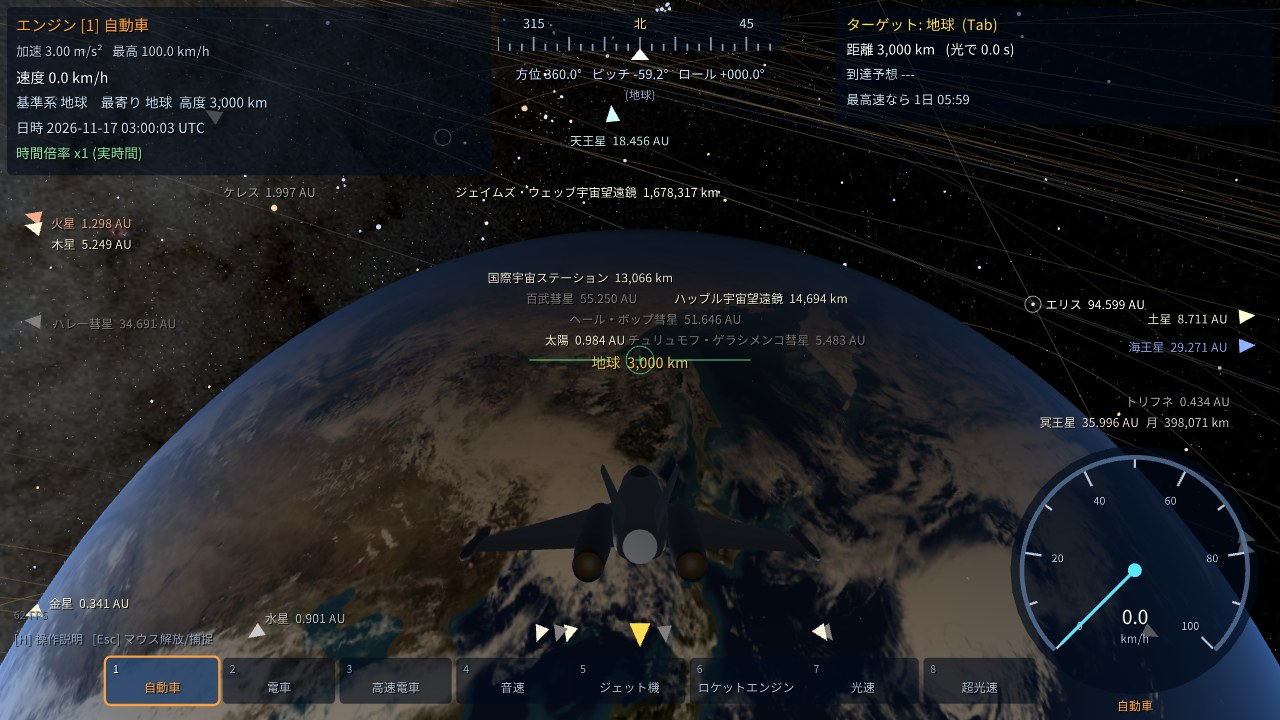
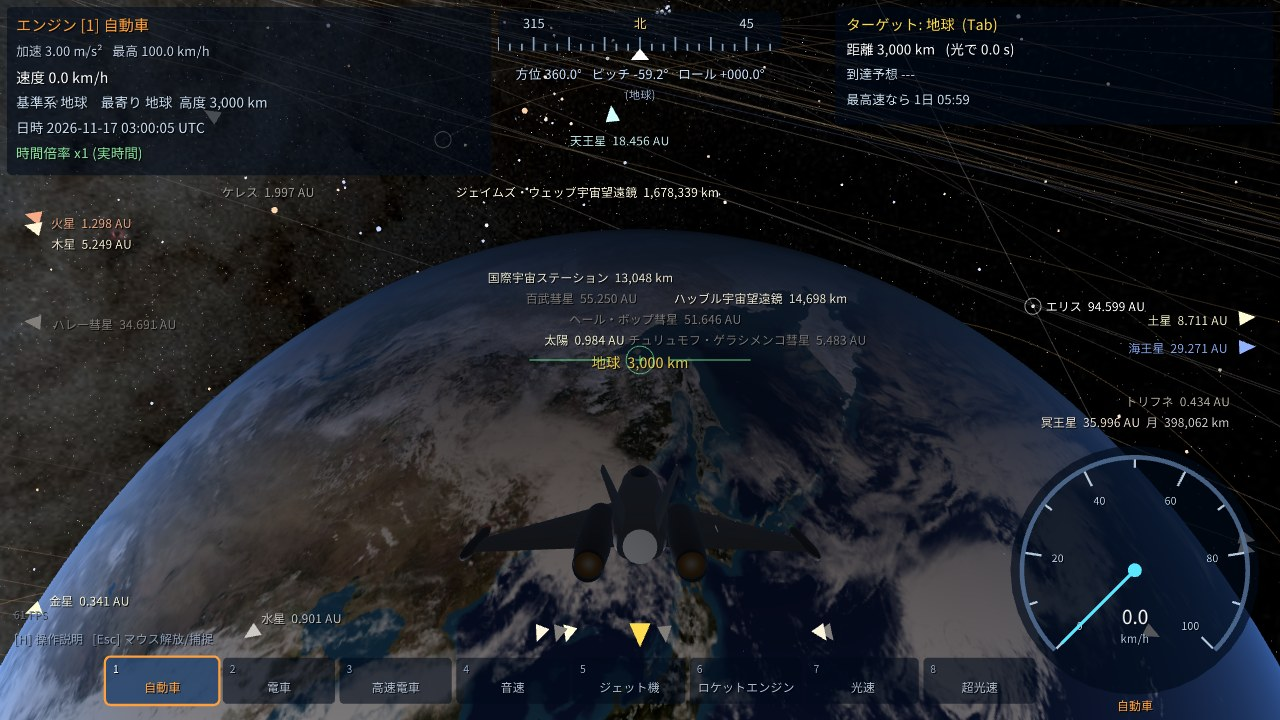
Draw Earth's coastlines from the 60 arc-second elevations and raise Earth's surface images to 8192x4096, opening the Seto Inland Sea

diff --git a/tools/make_earth_assets.py b/tools/make_earth_assets.py
@@ -5,35 +5,38 @@
 
 データ（いずれも商用を含め自由に再配布できるもの）:
   - NASA Blue Marble Next Generation (2004年4月, 地形陰影なし)  … 地表の色
-  - NOAA NCEI ETOPO 2022 (60 秒角, 氷床表面) を 5 分角に間引いたもの … 標高・水深・海陸
+  - NOAA NCEI ETOPO 2022 (60 秒角, 氷床表面) を 2 分角に間引いたもの … 標高・水深
+    同じデータの 60 秒角そのもの（make_earth_detail.py と同じファイル） … 海陸
   - NASA Black Marble 2016                                    … 夜の街明かり
 
 出力:
   earth_color.jpg  地表の色（海は周囲の陸の色で埋めてある）
-  earth_data.png   R: 高さコード, G: 夜景, B: 海陸マスク（少しぼかし）, A: 海氷
+  earth_data.png   R: 高さコード, G: 夜景, B: 海陸マスク（テクセルの中の陸の割合）, A: 海氷
+  どちらも 8192x4096（配布する版も。--hq を付けても同じ）
 
-使い方: python3 tools/make_earth_assets.py <作業ディレクトリ> [出力先=assets] [--hq]
-  --hq: 高画質版（8192x4096。地表の色は 21600x10800、標高は 2 個おきに取得）
-必要なもの: Pillow（ダウンロード 約 50 MB、--hq では 約 300 MB）
+使い方: python3 tools/make_earth_assets.py <作業ディレクトリ> [出力先=assets]
+必要なもの: Pillow と NumPy（ダウンロード 約 300 MB。ほかに make_earth_detail.py と同じ 約 930 MB）
 """
 import os
 import sys
 import struct
 import urllib.request
+import numpy as np
 from PIL import Image, ImageChops, ImageFilter, ImageMath
 
-HQ = "--hq" in sys.argv
+import make_earth_detail
+
 BASE = "https://assets.science.nasa.gov/content/dam/science/esd/eo/images"
 SOURCES = {
-    "color": BASE + "/bmng/bmng-base/april/world.200404.3x%s.jpg" % ("21600x10800" if HQ else "5400x2700"),
+    "color": BASE + "/bmng/bmng-base/april/world.200404.3x21600x10800.jpg",
     "lights": BASE + "/imagerecords/144000/144898/BlackMarble_2016_3km.jpg",
 }
-# ETOPO 2022 60 秒角 (21600x10800) を 5 個おきに取得 → 4320x2160（--hq では 2 個おきで 10800x5400。float32, OPeNDAP バイナリ)
-ETOPO_STRIDE = 2 if HQ else 5
+# ETOPO 2022 60 秒角 (21600x10800) を 2 個おきに取得 → 10800x5400（float32, OPeNDAP バイナリ)
+ETOPO_STRIDE = 2
 ETOPO_URL = ("https://oceanwatch.pifsc.noaa.gov/erddap/griddap/ETOPO_2022_v1_60s.dods"
              "?z%%5B0:%d:10799%%5D%%5B0:%d:21599%%5D" % (ETOPO_STRIDE, ETOPO_STRIDE))
 ETOPO_FILE = "etopo2022_60s_stride%d.dods" % ETOPO_STRIDE
-W, H = (8192, 4096) if HQ else (4096, 2048)
+W, H = 8192, 4096
 LAND_MAX, SEA_MAX = 8900.0, 11000.0  # 高さコードの範囲 (m)。シェーダの earthHeightM と合わせる
 
 
@@ -70,6 +73,28 @@ def ev(expr, **kw):
     return getattr(ImageMath, "unsafe_eval")(expr, **kw) if hasattr(ImageMath, "unsafe_eval") else ImageMath.eval(expr, **kw)
 
 
+def land_fraction(work, color):
+    """60 秒角（1 画素 約 1.85 km）で海陸を決め、W x H の 1 テクセルの中の陸の割合 (0..255) にする。
+    5 分角に間引いた標高で決めると、瀬戸内海のような幅 10〜50 km の海が陸になる（四国・九州が本州と陸続きに見えた）。
+    海陸: 標高 0 m 以上を陸とする。ただし地表画像で水の色の所（カスピ海などの湖）は水、
+    海面下でも暗くなく水の色でない浅い所（オランダの干拓地・カスピ海の北の低地など）は陸。
+    地表画像の浅い内海はほとんど黒い（瀬戸内海・東京湾）ので、暗い所はこの例外から除く"""
+    big = make_earth_detail.W, make_earth_detail.H
+    tile = make_earth_detail.TILE
+    land = np.zeros((big[1], big[0]), np.uint8)
+    for r in range(big[1] // tile):
+        e = make_earth_detail.load_band(work, r)
+        e = np.concatenate([e[:, big[0] // 2:], e[:, :big[0] // 2]], axis=1)   # 経度 -180° を左端に
+        ch = color.size[1] * tile // big[1]
+        c = np.asarray(color.crop((0, r * ch, color.size[0], (r + 1) * ch)).resize((big[0], tile), Image.BILINEAR),
+                       np.float32)
+        R, G, B = c[..., 0], c[..., 1], c[..., 2]
+        water = (B > np.maximum(R, G) + 8) | ((R + G + B < 100) & (B >= R))
+        landish = (e >= 0) | ((e > -50) & (R >= B) & (R + G + B >= 60))
+        land[r * tile:(r + 1) * tile] = (landish & ~water) * 255
+    return Image.fromarray(land).resize((W, H), Image.BOX)
+
+
 def fill_ocean(color, land):
     """海のピクセルを周囲の陸の色で埋める（プッシュプル法）。
     シェーダは海岸線をテクセルより細かく引くので、陸の色に海の青が混ざらないようにする。"""
@@ -103,14 +128,10 @@ def main():
     src = {k: fetch(work, u) for k, u in SOURCES.items()}
 
     elev = load_etopo(fetch(work, ETOPO_URL, ETOPO_FILE)).resize((W, H), Image.BILINEAR)
-    color = Image.open(src["color"]).convert("RGB").resize((W, H), Image.LANCZOS)
-    # 海陸: 標高 0 m 以上を陸とする。ただし地表画像で水の色の所（カスピ海などの湖）は水、
-    # 海面下でも水の色でない浅い所（オランダの干拓地・死海周辺など）は陸
-    r, g, b = [c.convert("F") for c in color.split()]
-    water = ev("convert(max(b > max(r, g) + 8, (r + g + b < 100) * (b >= r)) * 255, 'L')", r=r, g=g, b=b)
-    landish = ev("convert(max(e >= 0, (e > -50) * (r >= b)) * 255, 'L')", e=elev, r=r, b=b)
-    land = ImageChops.multiply(landish, ImageChops.invert(water))
-    land = land.filter(ImageFilter.MedianFilter(3))
+    color_src = Image.open(src["color"]).convert("RGB")
+    color = color_src.resize((W, H), Image.LANCZOS)
+    frac = land_fraction(work, color_src)
+    land = frac.point(lambda v: 255 if v >= 128 else 0)
     # 海氷: 海の上の白い所（元画像の明るさから）
     gray = color.convert("L")
     seaice = ImageChops.multiply(gray.point(lambda v: max(0, min(255, (v - 100) * 4))), ImageChops.invert(land))
@@ -124,8 +145,8 @@ def main():
     # G: 夜景。月明かりに照らされた地表（〜55）を除く
     lights = Image.open(src["lights"]).convert("L").resize((W, H), Image.LANCZOS)
     lights = lights.point(lambda v: int(round((max(0, v - 55) / 200) ** 1.3 * 255)))
-    # B: 少しぼかした海陸マスク（シェーダで 0.5 を境に海岸線を引き、ノイズで細かく揺らす）
-    mask = land.filter(ImageFilter.GaussianBlur(1.2))
+    # B: 陸の割合（シェーダで 0.5 を境に海岸線を引き、ノイズで細かく揺らす）。テクセルの半分より狭い海峡は閉じる
+    mask = frac
     # A: 海氷
     Image.merge("RGBA", (height, lights, mask, seaice)).save(os.path.join(out, "earth_data.png"), optimize=True)
     print("done:", out)

diff --git a/README.en.md b/README.en.md
@@ -230,7 +230,7 @@ On the first launch a short guide (4 pages) introduces the controls and highligh
 
 Try it in your browser without installing anything: **https://hubstacksea.github.io/Solar-System-Simulator/**
 
-- Runs in browsers with WebGL2 (recent Chrome / Edge / Firefox / Safari). Only the 10 MB needed to start is loaded first; the planet and moon maps, asteroid shapes, Moon maps, Earth's clouds and seasons, the fine elevations of Earth, the Moon and Mars, and the asteroid belt (about 126 MB) are loaded in the background while you play. Until they arrive, surfaces are drawn procedurally and "Loading maps (N left)" is shown at the bottom left
+- Runs in browsers with WebGL2 (recent Chrome / Edge / Firefox / Safari). Only the 21 MB needed to start is loaded first; the planet and moon maps, asteroid shapes, Moon maps, Earth's clouds and seasons, the fine elevations of Earth, the Moon and Mars, and the asteroid belt (about 126 MB) are loaded in the background while you play. Until they arrive, surfaces are drawn procedurally and "Loading maps (N left)" is shown at the bottom left
 - Music is not included (sound effects are). Japanese text uses the bundled Noto Sans JP font
 - Click the view to steer with the mouse (Esc to release). Settings and bookmarks are kept in the browser
 - On phones and tablets, on-screen buttons appear: drag to steer, Thrust / Brake / Stop on the right, Target / Warp / Autopilot on the left, Tour / Events / Map / Settings / Help / Share at the top, and tap the engine bar to switch engines. Quality starts at Low, and small screens are rendered at 720 pixels high and scaled down
@@ -498,7 +498,7 @@ On the "Apollo program" page of the event list (K), pick a flight and press Ente
 The images in `assets/` are made from NASA / NOAA data by `tools/make_earth_assets.py` and `tools/make_moon_assets.py` and embedded into the executable at build time (no files needed at run time).
 
 - Surface color: NASA Earth Observatory, Blue Marble: Next Generation (April 2004)
-- Elevation and ocean depth: NOAA NCEI, ETOPO 2022 Global Relief Model (60 arc-second, ice surface; subsampled to 5 arc-minutes for the whole globe, and used at the full 60 arc-seconds around the camera near the land surface; converted by `tools/make_earth_detail.py`, downloads about 930 MB)
+- Elevation and ocean depth: NOAA NCEI, ETOPO 2022 Global Relief Model (60 arc-second, ice surface; the global elevations are subsampled to 5 arc-minutes and the coastlines come from the 60 arc-seconds, which are also used as they are around the camera near the land surface; converted by `tools/make_earth_detail.py`, downloads about 930 MB)
 - City lights: NASA Earth Observatory, Black Marble 2016
 - Moon color and elevation: NASA's Scientific Visualization Studio, CGI Moon Kit (LROC WAC / LOLA)
 - Finer elevations for a few regions such as famous mountains (`assets/earth_patches.bin`, `moon_patches.bin`, `mars_patches.bin`): for Earth, ESA's Copernicus DEM GLO-90 (3 arc-seconds, about 90 m; produced using Copernicus WorldDEM™-90 © DLR e.V. 2010-2014 and © Airbus Defence and Space GmbH 2014-2018 provided under COPERNICUS by the European Union and ESA; all rights reserved); for the Moon, SLDEM2015 (LRO LOLA and the Kaguya Terrain Camera, Barker et al. 2016; 512 pixels per degree, about 60 m); for Mars, the USGS MOLA/HRSC blended elevations (200 m, averaged down to 288 pixels per degree, about 206 m). Made by `tools/make_detail_patches.py`
@@ -525,7 +525,7 @@ The images in `assets/` are made from NASA / NOAA data by `tools/make_earth_asse
 - Music (Moon): Debussy, "Clair de lune", Laurens Goedhart, piano (2011). CC BY 3.0
 - All recordings were taken from Wikimedia Commons. To regenerate: `python3 tools/make_music_assets.py <work dir>` (requires ffmpeg; downloads about 350 MB)
 
-All of them may be used and redistributed freely, including commercially (see [THIRD_PARTY_NOTICES.md](THIRD_PARTY_NOTICES.md)). To regenerate them: `python3 tools/make_earth_assets.py <work dir>` (downloads about 50 MB), `python3 tools/make_earth_detail.py <work dir>` (Earth's fine land elevations; also requires NumPy; about 930 MB), `python3 tools/make_body_detail.py <work dir>` (the fine elevations of the Moon and Mars; also requires NumPy; about 11.5 GB, 11.4 GB of it the Mars source), `python3 tools/make_detail_patches.py <work dir>` (the finer elevations for a few regions such as famous mountains; requires NumPy; about 80 MB for Earth and 0.6 GB for the Moon, plus the Mars source), `python3 tools/make_surface_props.py <work dir>` (the Moon's rock abundance and the thermal inertia and dune fields of Mars; also requires NumPy; about 140 MB) and `python3 tools/make_moon_assets.py <work dir>` (about 45 MB). All of them require Pillow. The place names come from `python3 tools/make_place_names.py <work dir>` (Python only; about 50 MB). The tools for the Earth, Earth's seasons and clouds, the Moon, the Milky Way and the planet and moon maps make a high-resolution set when `--hq` is added at the end (8192×4096 for the Earth and Moon colors and the Mercury and Mars maps, and so on). Write it to another folder and build with `cmake -B build-hq -DEMBED_ASSET_DIR=<that folder>` to embed it (an executable of about 178 MB and about 1.2 GB of textures; the released builds use the normal resolution). The source of the Moon's 8k colors (svs.gsfc.nasa.gov) does not send its intermediate certificate, so if the download fails, add the Let's Encrypt intermediate certificate.
+All of them may be used and redistributed freely, including commercially (see [THIRD_PARTY_NOTICES.md](THIRD_PARTY_NOTICES.md)). To regenerate them: `python3 tools/make_earth_assets.py <work dir>` (Earth's colors, elevations and coastlines at 8192×4096; downloads about 300 MB, and also uses the same 930 MB as make_earth_detail.py for the coastlines; also requires NumPy), `python3 tools/make_earth_detail.py <work dir>` (Earth's fine land elevations; also requires NumPy; about 930 MB), `python3 tools/make_body_detail.py <work dir>` (the fine elevations of the Moon and Mars; also requires NumPy; about 11.5 GB, 11.4 GB of it the Mars source), `python3 tools/make_detail_patches.py <work dir>` (the finer elevations for a few regions such as famous mountains; requires NumPy; about 80 MB for Earth and 0.6 GB for the Moon, plus the Mars source), `python3 tools/make_surface_props.py <work dir>` (the Moon's rock abundance and the thermal inertia and dune fields of Mars; also requires NumPy; about 140 MB) and `python3 tools/make_moon_assets.py <work dir>` (about 45 MB). All of them require Pillow. The place names come from `python3 tools/make_place_names.py <work dir>` (Python only; about 50 MB). The tools for the Earth, Earth's seasons and clouds, the Moon, the Milky Way and the planet and moon maps make a high-resolution set when `--hq` is added at the end (8192×4096 for the Moon colors and the Mercury and Mars maps, and so on; Earth's colors and elevations are 8192×4096 in the normal set too). Write it to another folder and build with `cmake -B build-hq -DEMBED_ASSET_DIR=<that folder>` to embed it (an executable of about 178 MB and about 1.2 GB of textures; the released builds use the normal resolution). The source of the Moon's 8k colors (svs.gsfc.nasa.gov) does not send its intermediate certificate, so if the download fails, add the Let's Encrypt intermediate certificate.
 
 ## Display language (日本語 / English)
 

diff --git a/CHANGELOG.md b/CHANGELOG.md
@@ -4,6 +4,12 @@
 
 リリースの時は、その版の項目が GitHub のリリースノートにも載ります。
 
+## 2.70.0 (2026-11-24)
+
+- 地球の海陸の境を直した。5 分角（約 9 km）おきの点の標高で海陸を決め、浅い海で画像が水の色でない所を陸にしていたため、瀬戸内海の大部分が陸になり、四国・九州が本州と陸続きに見えていた（地表の画像では瀬戸内海・東京湾などの内海はほとんど黒い）。海陸は ETOPO 2022 の 60 秒角（約 1.85 km）で決め、テクセルの中の陸の割合を境に使う。暗い所は、浅くても陸にしない（オランダの干拓地・カスピ海の北の低地は陸のまま）。デンマーク・エーゲ海・フィリピン・カナダの北極諸島などの海岸も細かくなる
+- 地球の地表の色と標高・海陸の画像を 8192×4096 にした（4096×2048 から。雲と季節の画像はそのまま）。明石海峡が開き、淡路島や小豆島が分かれて見える。関門海峡（約 0.6 km）と鳴門海峡（約 1.3 km）は細かさが足りず閉じたまま。実行ファイルは約 11 MB、ブラウザ版の起動時のデータは 10.5 MB から 20.8 MB に増え、起動は約 0.8 秒遅くなる（描画の速さは変わらない）
+- README の日本上空の昼の地球と夜のヨーロッパの画像を撮り直した
+
 ## 2.69.3 (2026-11-24)
 
 - GitHub の README で、画像の表の左右の画像の大きさがそろわないのを直した（地球と月など。説明文の長い列が広くなっていた）。列の幅を半分ずつに固定する

diff --git a/CHANGELOG.en.md b/CHANGELOG.en.md
@@ -4,6 +4,12 @@
 
 The release workflow copies the section of the version being released into the GitHub release notes.
 
+## 2.70.0 (2026-11-24)
+
+- Fixed Earth's coastlines. Land and sea were decided from elevations sampled every 5 arc-minutes (about 9 km), and shallow sea that did not look like water in the surface image counted as land, so most of the Seto Inland Sea was land and Shikoku and Kyushu looked joined to Honshu (inland seas such as the Seto Inland Sea and Tokyo Bay are nearly black in the surface image). Land and sea are now decided from ETOPO 2022 at 60 arc-seconds (about 1.85 km), and the coastline follows the share of land in each texel. Dark areas no longer count as land even when shallow (the Dutch polders and the lowlands north of the Caspian stay land). Coasts such as Denmark, the Aegean, the Philippines and the Canadian Arctic islands are also finer
+- Earth's surface colors and elevation and coastline image are now 8192×4096 (from 4096×2048; the cloud and season images are unchanged). The Akashi Strait opens, and Awaji and Shodoshima stand apart. The Kanmon Strait (about 0.6 km) and the Naruto Strait (about 1.3 km) are too narrow and stay closed. The executable grows by about 11 MB, the browser version's startup data from 10.5 MB to 20.8 MB, and startup takes about 0.8 s longer (drawing speed is unchanged)
+- Retook the README images of daytime Earth above Japan and Europe at night
+
 ## 2.69.3 (2026-11-24)
 
 - Fixed the images in the README galleries on GitHub being of unequal size side by side (Earth and the Moon and others; the column with longer captions was wider). Each column now takes half the width
